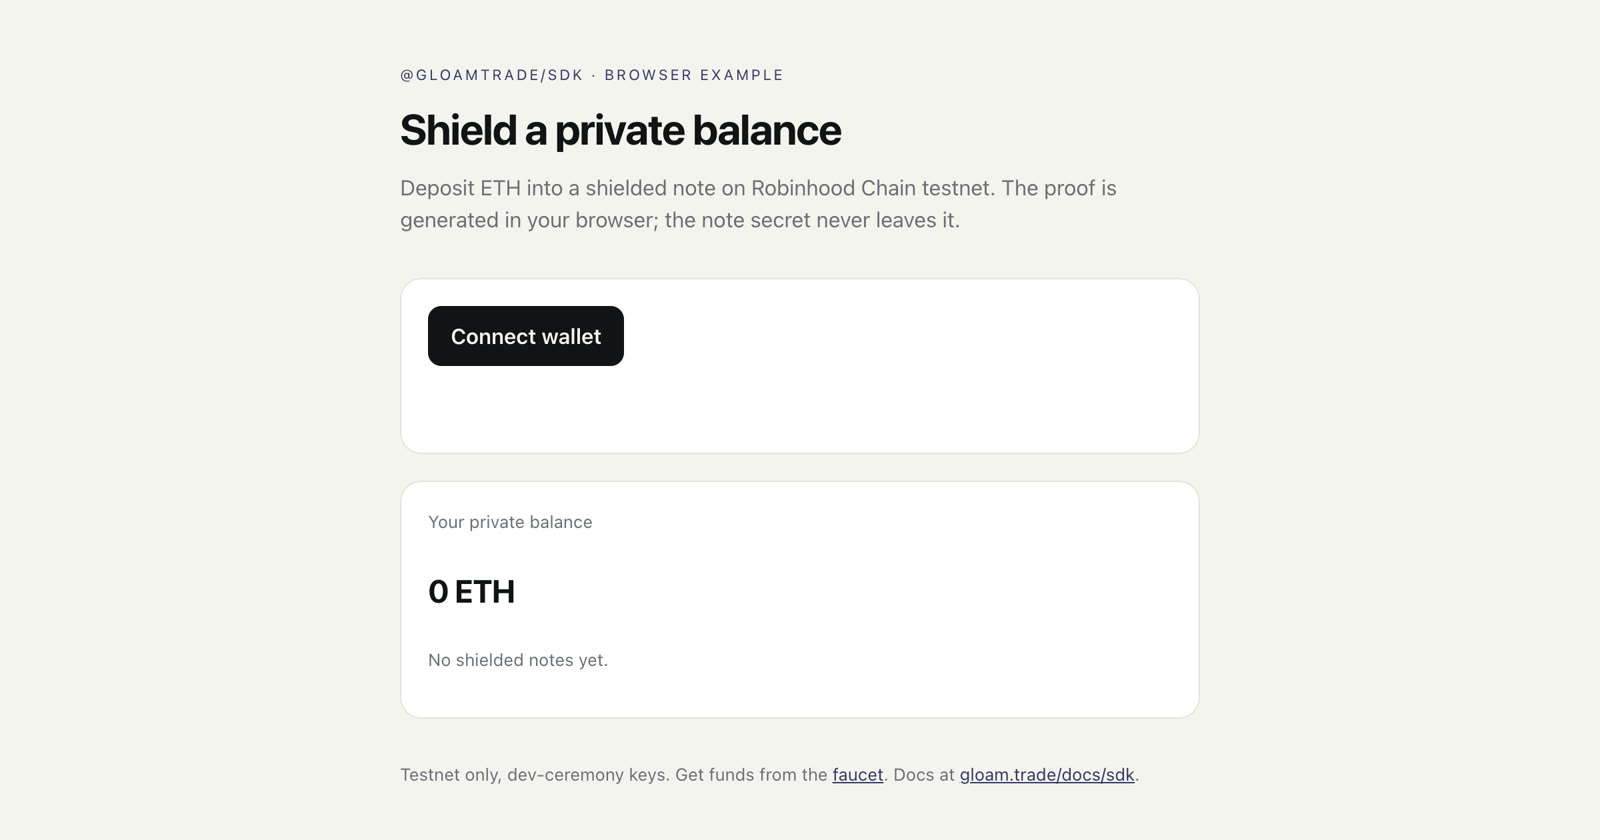
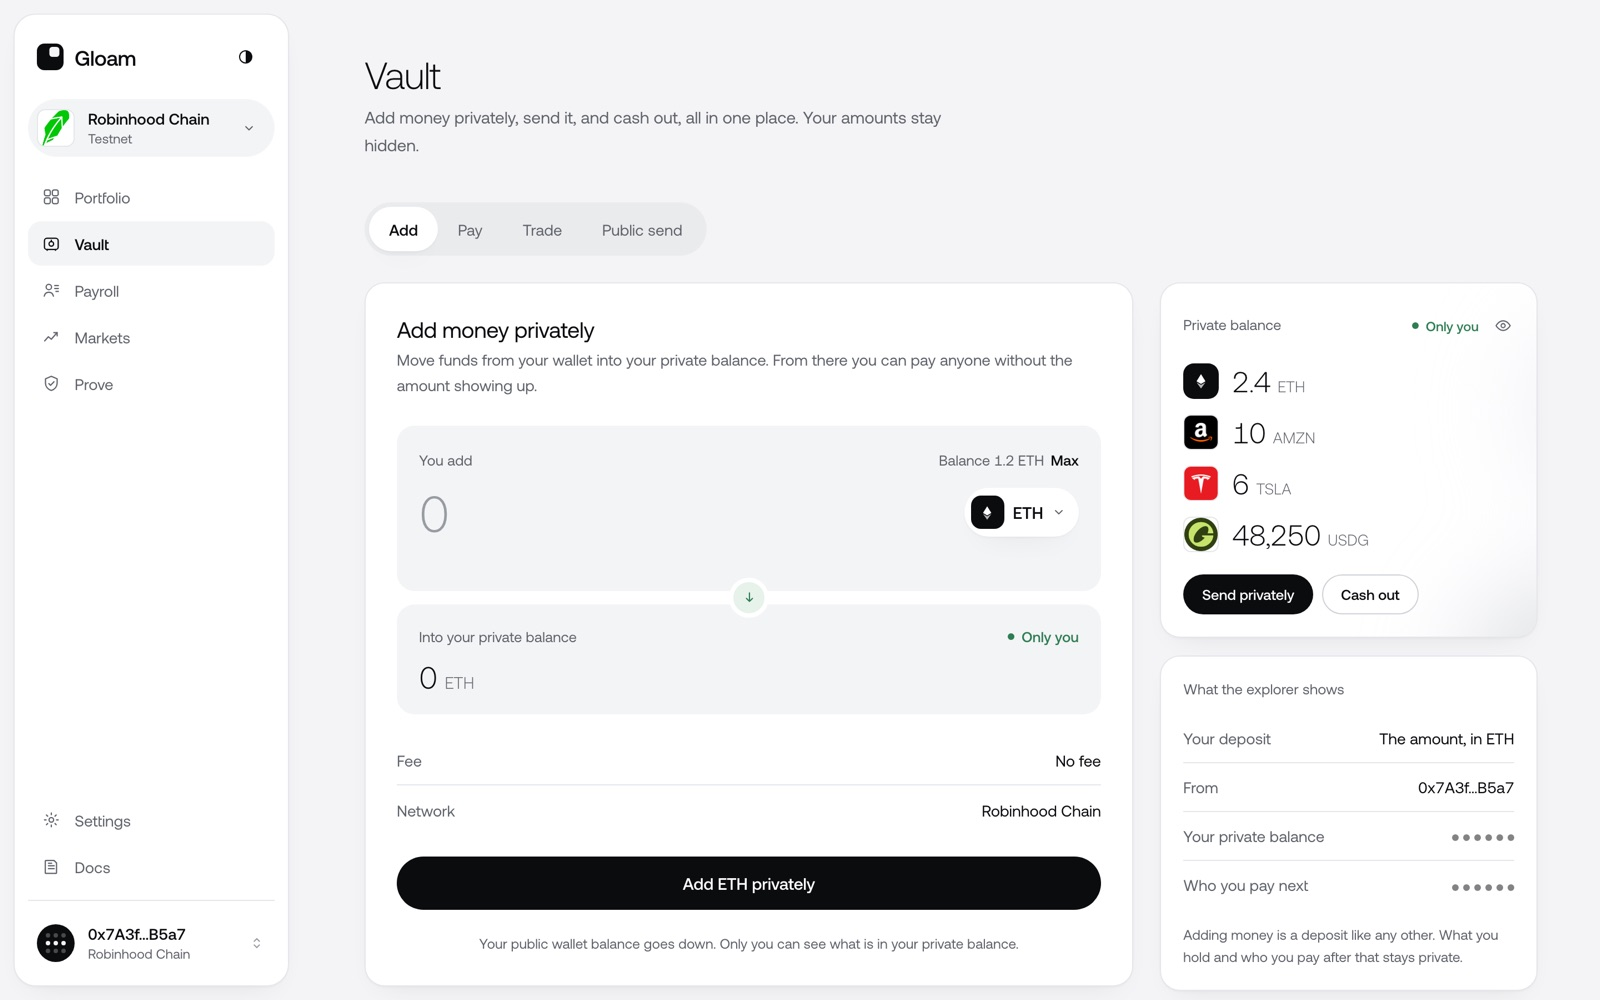
READMEs: current UI screenshots and brand

diff --git a/README.md b/README.md
@@ -10,6 +10,8 @@
 
 </div>
 
+![Gloam: private money on public chains](https://raw.githubusercontent.com/cryptoduke01/gloam/main/app/public/media/readme-home.jpg)
+
 ---
 
 Public chains put finance on public rails: every holding, every size, every move is visible. Robinhood Chain does it for tokenized stocks and crypto; Tempo does it for stablecoin payments. Gloam is the sealed chamber on top. Shield a balance, pay privately, and later prove exactly what you choose to a counterparty or auditor, and nothing else. It is not a dark theme on a public DEX; it is a private-execution primitive that other onchain apps and AI agents build on — live today on Robinhood Chain (flagship) and Tempo.
@@ -24,6 +26,8 @@ The vault app is the reference implementation, not the whole product.
 | **Agents** | An MCP server + a reference wrapper so an AI agent can shield, move value, and pay for tools privately over x402, under policy. | [`@gloamtrade/mcp`](./mcp) · [`examples/agent-shield`](./examples/agent-shield) |
 | **Vault** | The live testnet app that proves the whole path works. | [`app/`](./app) |
 | **Partner API** | Apps add private payments with an API key, set their own fee (flat per private payment, a share of cash outs and deposits), and see attributed volume and would-be fees live in the partner portal. Testnet: nothing is charged; real fees need a fee output in the circuits, part of the mainnet ceremony. | [`/partners`](https://gloam.trade/partners) · [`/docs/partners`](https://gloam.trade/docs/partners) · `GloamApiClient` |
+
+![The Gloam app: a private balance only you can see](https://raw.githubusercontent.com/cryptoduke01/gloam/main/app/public/media/readme-app.jpg)
 
 All three share one core: a Poseidon note scheme, a depth-20 incremental Merkle tree, circom witness builders, real Groth16 verification, and one canonical intent shape.
 
@@ -143,7 +147,7 @@ Run the reference app from `app/` (`next dev`), or open [gloam.trade/app](https:
 - Testnet only until a production ceremony + external audit. Mainnet `4663` blocked in-product.
 - Real privacy only. Never fake or mock a private success.
 - Selective disclosure over opacity. Verifiable, not just hidden.
-- Brand: Twilight, paper `#F4F3EF`, ink `#121316`, indigo `#3B3766`. Light, spacious, plain-language.
+- Brand: monochrome with a green tint (`#2e7d53` light, `#8fd3ad` dark), Aeonik, light and dark. Calm, spacious, plain-language.
 
 ---
 

diff --git a/packages/sdk/README.md b/packages/sdk/README.md
@@ -4,9 +4,9 @@
 
 Add shielded balances, private payments, and selective disclosure to any Robinhood Chain app or agent. Real zero-knowledge proofs, no proving stack to build from scratch.
 
-[![npm version](https://img.shields.io/npm/v/@gloamtrade/sdk?color=3B3766&label=npm)](https://www.npmjs.com/package/@gloamtrade/sdk)
-[![license](https://img.shields.io/npm/l/@gloamtrade/sdk?color=3B3766)](https://github.com/cryptoduke01/gloam/blob/main/LICENSE)
-[![types](https://img.shields.io/npm/types/@gloamtrade/sdk?color=3B3766)](https://www.npmjs.com/package/@gloamtrade/sdk)
+[![npm version](https://img.shields.io/npm/v/@gloamtrade/sdk?color=0B0C0E&label=npm)](https://www.npmjs.com/package/@gloamtrade/sdk)
+[![license](https://img.shields.io/npm/l/@gloamtrade/sdk?color=0B0C0E)](https://github.com/cryptoduke01/gloam/blob/main/LICENSE)
+[![types](https://img.shields.io/npm/types/@gloamtrade/sdk?color=0B0C0E)](https://www.npmjs.com/package/@gloamtrade/sdk)
 [![Robinhood Chain](https://img.shields.io/badge/chain-Robinhood%20testnet%2046630-2E7D53)](https://gloam.trade/docs/testnet)
 
 ![The Gloam SDK](https://raw.githubusercontent.com/cryptoduke01/gloam/main/app/public/media/readme-hero.jpg)
@@ -422,7 +422,7 @@ Four runnable references, one for each shape a builder starts from:
 | [pay-x402](https://github.com/cryptoduke01/gloam/tree/main/examples/pay-x402) | Node | A private agent payment over x402: price, pay sealed to the payee, sweep, serve. |
 | [web-shield](https://github.com/cryptoduke01/gloam/tree/main/examples/web-shield) | Browser | Shield in the browser, read the balance back from chain. |
 
-![Shield a private balance in the browser](https://raw.githubusercontent.com/cryptoduke01/gloam/main/app/public/media/readme-browser.jpg)
+![Add money privately in the browser](https://raw.githubusercontent.com/cryptoduke01/gloam/main/app/public/media/readme-browser.jpg)
 
 ## Pinned public inputs
 
